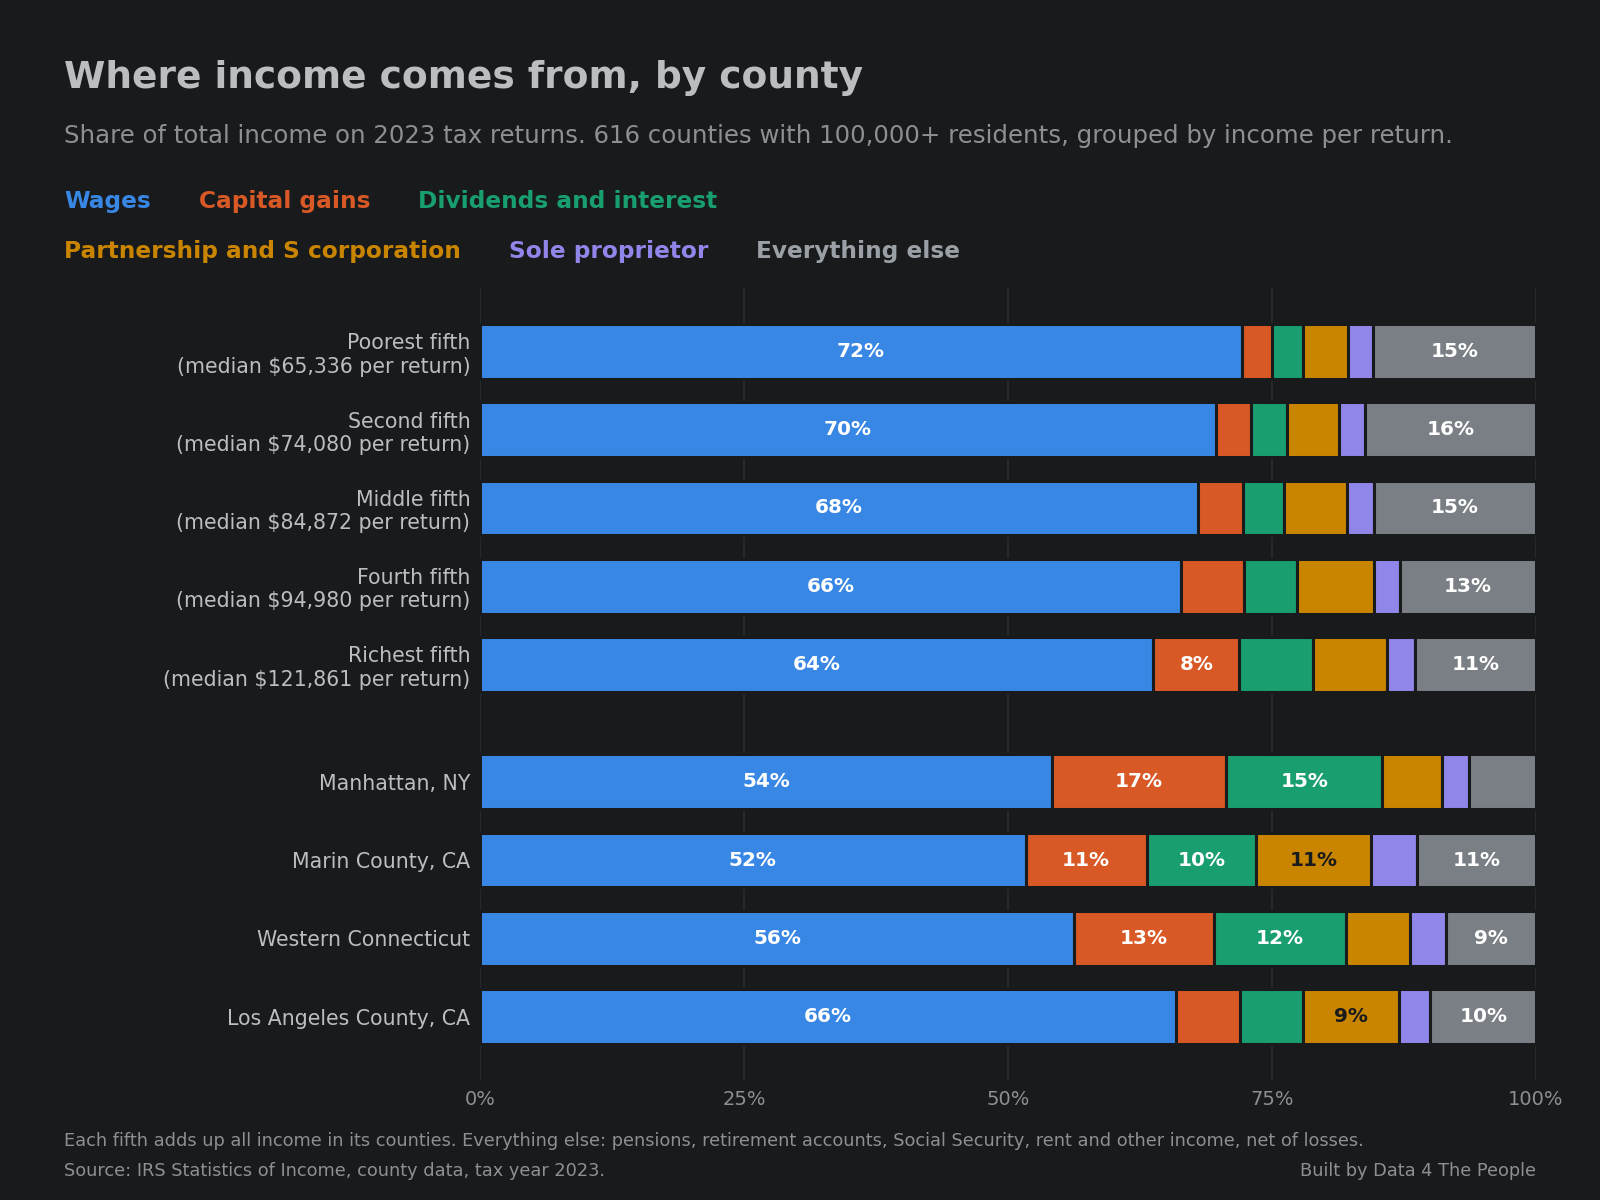
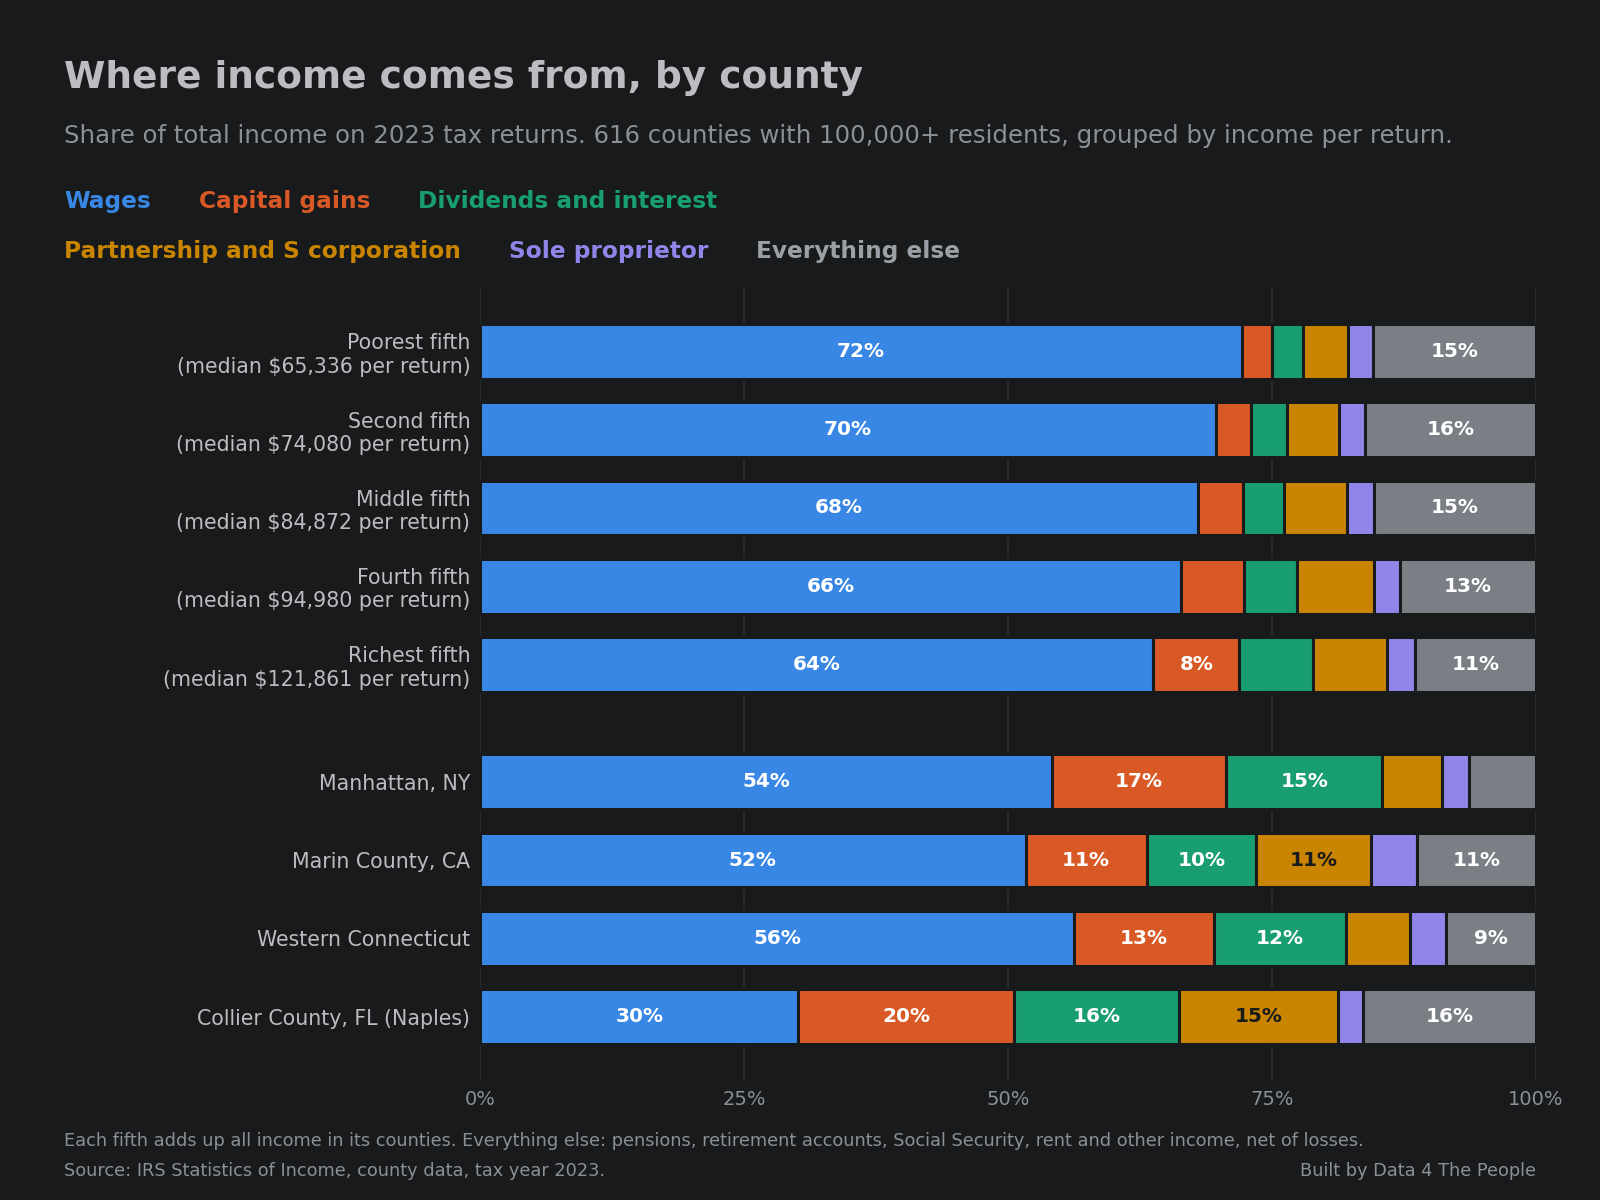
Day 2: drop NY aides chart; Collier County on the county chart

Changed region(s): [[0.5, 0.8017, 0.9375, 0.8942], [0.125, 0.8325, 0.2812, 0.8633], [0.375, 0.8325, 0.4062, 0.8633]]

diff --git a/scripts/13_day2_charts.py b/scripts/13_day2_charts.py
@@ -130,20 +130,6 @@ gap_chart("gap_vs_aides", "Home health and personal care aides", "03a-gap-vs-hom
 gap_chart("gap_vs_fastfood", "Fast food and counter workers", "03b-gap-vs-fast-food.png",
           "The pay gap in dollars: higher-paid jobs vs. fast food workers", "Fast food pay")
 
-# 3c. New York aides
-ny = N["ny_aides"]; yrs = ["2016", "2019", "2022", "2025"]
-fig = frame("Home health aides became New York's largest occupation",
-            "Home health and personal care aides, New York-Newark-Jersey City metro area, May of each year.", h=5.2)
-ax = fig.add_axes([0.08, 0.13, 0.86, 0.62]); clean(ax)
-v = [ny[y]["jobs"] for y in yrs]
-ax.bar(yrs, v, color=BLUE, width=0.6)
-for x, y_, jv in zip(yrs, v, [ny[y]["share"] for y in yrs]):
-    ax.text(x, y_ + 12000, f"{y_:,.0f} jobs\n{jv:.1%} of all jobs", ha="center", fontsize=8, color=INK)
-ax.set_ylim(0, max(v) * 1.25); ax.set_yticks([]); ax.tick_params(axis="x", labelsize=9, colors=INK)
-footer(fig, "Source: BLS OEWS, May 2016 to May 2025.",
-       f"Largest occupation in May 2025; next were {ny['second_2025'][0].lower()} ({ny['second_2025'][1]:,.0f}). Before 2019 BLS listed aides as two occupations; both are counted.")
-fig.savefig(os.path.join(OUT, "03c-ny-home-health-aides.png"), facecolor=BG); plt.close(fig)
-
 # 4. Change over time
 C = N["change"]
 bars = [("States, since 2016", C["states_2016"]), ("States, since 2022", C["states_2022"]),
@@ -172,7 +158,8 @@ shutil.copy(os.path.join(ROOT, "posts/lorenz-chart-viz/images/01-income-sources-
 CO = N["county"]; SRC = ["Wages", "Capital gains", "Dividends and interest", "Partnership and S corporation", "Sole proprietor", "Everything else"]
 COLS = [BLUE, ORANGE, AQUA, YELLOW, VIOLET, GREY]
 rows = [(f"{q}\n(median ${v['agi_per_return_median']:,.0f} per return)", v) for q, v in CO["pooled_fifths"].items()]
-rows += [(n.replace(" (New York County), NY", ", NY"), v) for n, v in CO["named"].items() if not n.startswith("Collier")]
+rows += [(n.replace(" (New York County), NY", ", NY").replace("Collier County, FL", "Collier County, FL (Naples)"), v)
+         for n, v in CO["named"].items() if not n.startswith("Los Angeles")]
 fig = frame("Where income comes from, by county", f"Share of total income on 2023 tax returns. {CO['n']} counties with 100,000+ residents, grouped by income per return.", h=6.0)
 for i, ((lab, col)) in enumerate(zip(SRC, COLS)):
     pass

diff --git a/STATUS.md b/STATUS.md
@@ -106,3 +106,4 @@ None. (2a-2d were stale after /step back 1 on 2026-09-27; re-run the same day at
 - 2026-09-28 Step 2g confirmed by Eric. lorenz-chart-viz complete (steps 1 through 2g confirmed). Remaining manual step in Prismic: set author and the Visualization tag, then publish the draft from the Migration Release.
 - 2026-09-28 Step 1 opened for Day 2 (five takeaways), publishing Monday night, September 28. Starting point: analysis/candidate_findings.md; home health aides in New York required; headline aimed at where wage inequality is rising and falling.
 - 2026-09-28 Day 2 Step 1: five takeaways agreed with Eric (states three ways; metros three ways plus 500k+ jobs; dollar gaps vs home health aides and fast food workers with NY aides; change since 2016 vs 2022; income on 2023 tax returns by county, IRS county file). Numbers in data/build/day2_numbers.json (scripts/12), nine charts in analysis/day2_charts (scripts/13); tie-out PASS.
+- 2026-09-28 Day 2: 03c (New York aides chart) dropped at Eric's request; 05b now shows Collier County, FL (Naples) instead of Los Angeles County.
